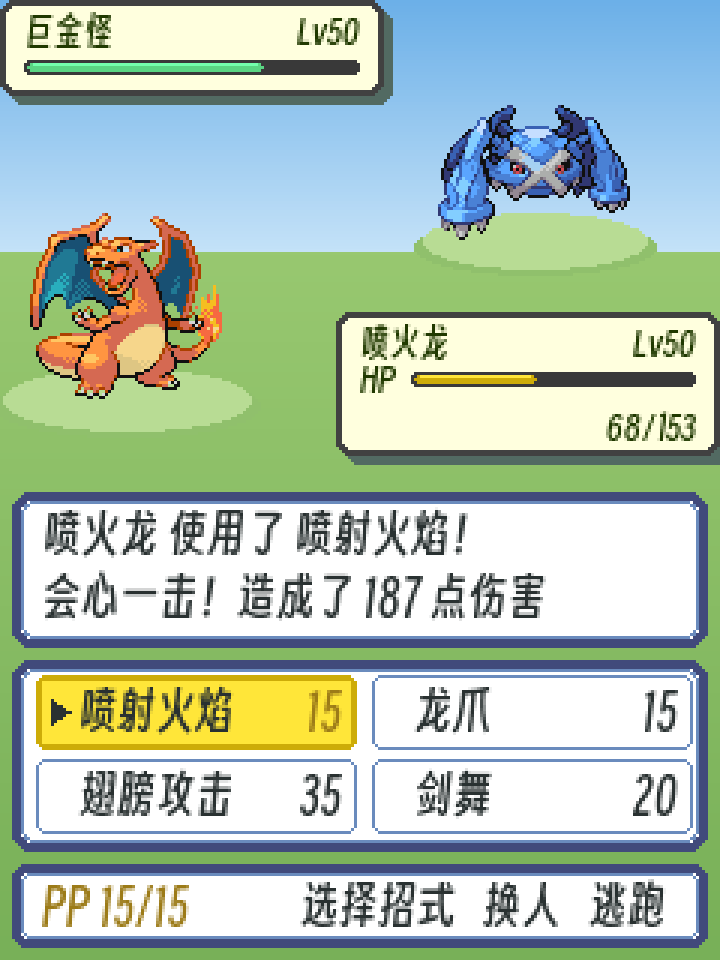
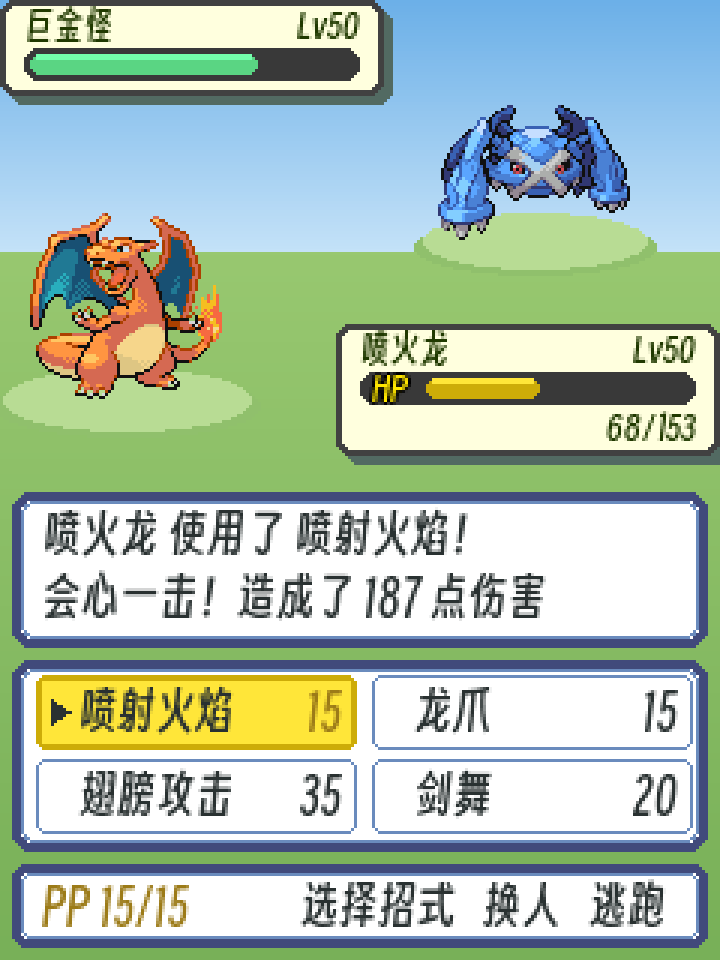
ui: 「HP」标签嵌进血条，血条框再压紧
用户给了火红的参考图：HP 两个字是和血条一体的，并且整体还能更紧凑。

改法：
- hp_bar() -> hp_row()：「HP」标签嵌在条的左端，整体是一个深色胶囊。
  标签用金色 #FFE600（healthbox.pal[9]）+ 黑描边（新增 draw_outlined()），
  其后才是彩色填充。以前画成「左边一个 HP 文字 + 右边一条独立的短条」，
  看着散，横向也多占一个标签的宽度。
- HP 行高 11px（要容纳嵌入的标签），两端仍是胶囊形。
- 我方血条框 128x48 -> 128x44：三行（名字 / HP 条 / 数字）正好填满。
- 对手框维持原版 128x32。

顺带把 hp_row 的填充改成上下各内缩 2px、右端内缩 4px，这样胶囊的圆弧
不会被填充的方角戳出来。

README 的版式表补上「HP 条形态」一行（标签嵌入 + 金色 #FFE600 + 黑描边），
并在界面设计章节记下「分开画和整体画观感差别很明显」这条。

Changed region(s): [[0.4583, 0.3125, 1.0, 0.4375], [0.0306, 0.0, 0.5194, 0.0938]]

diff --git a/tools/make_readme_images.py b/tools/make_readme_images.py
@@ -66,6 +66,11 @@ DLG_EDGE_HI = (106, 139, 189)
 DLG_TEXT = (41, 49, 49)
 DLG_GOLD = (156, 123, 24)
 
+# HP 标签（嵌在条左端，原版就是这样）
+HP_LABEL = (255, 230, 0)      # healthbox.pal[9] 框内的黄
+HP_LABEL_EDGE = (0, 0, 0)     # 标签黑描边
+HP_ROW_H = 11                 # HP 行高度（标签嵌在条内，所以比纯条高）
+
 # 选中项高亮
 SEL_FILL = (255, 230, 57)
 SEL_EDGE = (205, 172, 8)
@@ -225,32 +230,50 @@ def hp_color(ratio):
     return BAR_RED
 
 
-def hp_bar(d, x, y, w, h, ratio):
+def draw_outlined(font, img, x, y, text, fill, edge):
+    """先四向偏移画描边色，再画本体。小字号下描边能显著提升可读性。"""
+    for dx, dy in ((-1, 0), (1, 0), (0, -1), (0, 1)):
+        font.draw(img, x + dx, y + dy, text, edge)
+    font.draw(img, x, y, text, fill)
+
+
+def hp_row(font, img, d, x, y, w, h, ratio, label=True):
     """
-    画 FRLG 风格的 HP 条。
+    HP 条——**「HP」标签嵌在条的左端，整体是一个元素**（原版即如此）。
+
+        [ 深色胶囊 ......................... ]
+         └ 左端：金色「HP」（黑描边）
+         └ 其后：彩色填充，上下各内缩 2px
 
     两个要点：
-      1. **双色立体**——原版不是单色矩形，而是上行高光、下行基色，外面套深色槽。
+      1. **标签与条是一个整体**，不是「左边一个 HP 文字 + 右边一条独立的条」。
+         分开画会显得散，且横向多占一个标签的宽度。
+      2. **填充是双色立体**——原版不是单色矩形，而是上行高光、下行基色。
          按单色画会明显「不像」。
-      2. **四角圆角**——两端收成胶囊形，与血条框的圆角风格统一。
-         原版是方角，这里按需求改成圆角。
     """
-    r = max(1, h // 2)
-    d.rounded_rectangle([x, y, x + w - 1, y + h - 1], radius=r, fill=BAR_TRACK)
+    d.rounded_rectangle([x, y, x + w - 1, y + h - 1],
+                        radius=max(1, h // 2), fill=BAR_TRACK)
 
-    inner_w = w - 2
+    fx = x + 2
+    if label:
+        # ASCII 字形的墨迹从 draw_y+3 起、高 9px；要让它竖直居中于胶囊内
+        draw_outlined(font, img, x + 4, y + (h - 9) // 2 - 3, "HP",
+                      HP_LABEL, HP_LABEL_EDGE)
+        fx = x + 4 + font.measure("HP") + 6
+
+    inner_w = (x + w - 4) - fx
+    if inner_w < 5:
+        return
     fill_w = max(0, min(inner_w, int(round(inner_w * ratio))))
-    if fill_w < 3:
+    if fill_w < 5:
         return
 
     hi, lo = hp_color(ratio)
-    x1, y1 = x + 1, y + 1
-    x2, y2 = x + fill_w, y + h - 2
-    r2 = max(1, (h - 2) // 2)
-    d.rounded_rectangle([x1, y1, x2, y2], radius=r2, fill=lo)
-    # 上缘高光：两端各收进 2px，避免方角从胶囊形的圆弧里戳出来
-    if fill_w > 5:
-        d.rectangle([x1 + 2, y1, x2 - 2, y1 + max(0, h // 3 - 1)], fill=hi)
+    x2 = fx + fill_w - 1
+    d.rounded_rectangle([fx, y + 2, x2, y + h - 3],
+                        radius=max(1, (h - 4) // 2), fill=lo)
+    if fill_w > 7:
+        d.rectangle([fx + 2, y + 2, x2 - 2, y + 3], fill=hi)
 
 
 def frlg_frame(d, x, y, w, h, radius=5):
@@ -261,40 +284,27 @@ def frlg_frame(d, x, y, w, h, radius=5):
                         radius=radius, fill=HB_FILL, outline=HB_EDGE, width=2)
 
 
-HP_BAR_H = 5        # 条高（原版约 8，按需求调到 5）
-
-
 def healthbox(font, img, d, x, y, w, h, name, lv, ratio, hp_text=None):
     """
     一个完整的血条框。`font` 传 12px 那套（16px 在小框里明显偏大）。
 
     对手框 128x32：名字 + Lv + HP 条（原版对手框不显示数字）
-    我方框 128x48：多「HP」标签和一行 HP 数字
+    我方框 128x44：HP 条左端多一个「HP」标签 + 一行 HP 数字
 
     **我方框高度与原版不同**：原版的 128x64 是因为最下面压着一条 EXP 条，
-    本项目不用 EXP，所以压到 48——三行（名字 / HP 条 / 数字）正好填满，
-    不然下方会留一块空白。
+    本项目不用 EXP，压到 44 才紧凑——三行（名字 / HP 条 / 数字）正好填满。
     """
     frlg_frame(d, x, y, w, h)
-
-    if hp_text:
-        name_y, bar_y, num_y = 3, 20, 31
-    else:
-        name_y, bar_y, num_y = 3, 20, 0
-    font.draw(img, x + 8, y + name_y, name, HB_TEXT)          # 名字
+    fy = 1 if hp_text else 1          # 名字行
+    font.draw(img, x + 8, y + fy, name, HB_TEXT)
     lv_x = x + w - 8 - font.measure(lv)
-    font.draw(img, lv_x, y + name_y, lv, HB_TEXT)             # 等级右对齐
+    font.draw(img, lv_x, y + fy, lv, HB_TEXT)
+
+    hp_row(font, img, d, x + 8, y + 16, w - 16, HP_ROW_H, ratio,
+           label=bool(hp_text))
 
     if hp_text:
-        # 我方框：左边标「HP」，条相应缩短；标签与条垂直居中对齐
-        font.draw(img, x + 8, y + bar_y - 5, "HP", HB_TEXT)
-        bar_x = x + 8 + font.measure("HP") + 5
-    else:
-        bar_x = x + 8
-    hp_bar(d, bar_x, y + bar_y, (x + w - 8) - bar_x, HP_BAR_H, ratio)
-
-    if hp_text:
-        font.draw(img, x + w - 8 - font.measure(hp_text), y + num_y,
+        font.draw(img, x + w - 8 - font.measure(hp_text), y + 27,
                   hp_text, HB_TEXT)
 
 
@@ -341,10 +351,10 @@ def make_hero(f_ui, f_lvgl, sprites, names, scale):
     | 项 | 值 | 出处 |
     |---|---|---|
     | 对手血条框 | 128x32，左上角贴边 (0,0) | OAM `SPRITE_SHAPE(64x64)` x2 精灵拼合 |
-    | 我方血条框 | 128x48，右下角贴边 (112,104) | 原版为 128x64，本项目去掉 EXP 条后压到 48 |
+    | 我方血条框 | 128x44，右下角贴边 (112,108) | 原版为 128x64，本项目去掉 EXP 条后压到 44 |
     | 网格 | 左上 / 右下**对角**摆放 | 原版就是对角，两框各占半屏宽 |
     | 框体配色 | 米白填充 + 深灰描边 + 右下墨绿投影 | `healthbox.pal` |
-    | HP 条 | 双色立体（上行高光、下行基色）+ 深色槽 | `healthbar.pal` |
+    | HP 条 | 双色立体（上行高光、下行基色）+ 深色槽；「HP」标签嵌在条左端 | `healthbar.pal` + 原版图形 |
     | 对话框 | 白底 + 深蓝外框 + 浅蓝内框 | `textbox1.pal` |
 
     屏幕是 240x320，正好是 GBA 240x160 的两倍，所以：
@@ -403,7 +413,7 @@ def make_hero(f_ui, f_lvgl, sprites, names, scale):
     healthbox(f_ui, img, d, 0, 0, 128, 32,
               names["metagross"], "Lv50", 0.72)
     # 我方：右下，128x64（多 HP 数字与 EXP 条）
-    healthbox(f_ui, img, d, 112, 104, 128, 48,
+    healthbox(f_ui, img, d, 112, 108, 128, 44,
               names["charizard"], "Lv50", 0.44, hp_text="68/153")
 
     # ---- 下半屏：对话框 + 招式菜单 + 状态行 ----

diff --git a/README.md b/README.md
@@ -119,12 +119,13 @@ Pokémon Showdown 的 `sim/bots/` 已从 master 移除，只剩 `RandomPlayerAI`
 | 项 | 原版值 | 出处 |
 |---|---|---|
 | 对手血条框 | **128×32**，左上角贴边 `(0,0)` | OAM 是 `SPRITE_SHAPE(64x64)` 的**两个**精灵拼合 → 宽 128 |
-| 我方血条框 | **128×48**，右下角贴边 `(112,104)` | 原版是 128×64，因为它最下面压着一条 EXP 条；本项目不用 EXP，压到 48 才不留空白 |
+| 我方血条框 | **128×44**，右下角贴边 `(112,108)` | 原版是 128×64，因为它最下面压着一条 EXP 条；本项目不用 EXP，压到 44 才不留空白 |
 | 摆放 | 左上 / 右下**对角**，各占半屏宽 | 原版即如此 |
 | 框体 | 米白填充 `#FFFFDE` + 深灰描边 `#414141` + 右下墨绿投影 `#526A62` | `graphics/battle_interface/healthbox.pal` |
 | 框内文字 | 用 **12 px** 那套字库（16 px 在小框里明显偏大） | 本项目调整 |
 | HP 条 | **双色立体**：上行高光 + 下行基色，外套深色槽 | `healthbar.pal` |
-| HP 条尺寸 | 高 **5 px**（原版约 8），两端**圆角收成胶囊形**，与框体圆角统一 | 本项目调整 |
+| HP 条形态 | **「HP」标签嵌在条的左端，与条是一个整体**（不是「左边一个 HP 文字 + 右边一条独立的条」）。标签金色 `#FFE600` + 黑描边 | `healthbox.pal[9]` |
+| HP 行高 | **11 px**（要容纳嵌入的标签），两端**圆角收成胶囊形**，与框体圆角统一 | 本项目调整 |
 | HP 条三档色 | 绿 `#73FFAC`/`#5AD583`、黄 `#FFE639`/`#CDAC08`、红 `#FF5A39`/`#AC414A` | 同上 |
 | 对话框 | 白底 + 深蓝外框 `#414A7B` + 浅蓝内框 `#6A8BBD` | `textbox1.pal` |
 | 框内文字色 | 深绿 `#203900` | `healthbox.pal` |
@@ -135,6 +136,10 @@ Pokémon Showdown 的 `sim/bots/` 已从 master 移除，只剩 `RandomPlayerAI`
 **立绘站台要按「可见像素」的下边界摆，不能按 64×64 画布的下边界。** 立绘画布
 底部通常留一圈透明（巨金怪留了 6 px），按画布摆会让站台明显悬在脚底下。
 `make_readme_images.py` 里用 `sprite.getbbox()[3]` 取真实脚底。
+
+**「HP」标签是嵌在血条里的。** 一开始画成了「左边一个 HP 文字 + 右边一条独立的
+短条」，看着散、横向也多占一个标签的宽度。原版是一个整体：深色胶囊，左端放
+金色「HP」，其后才是彩色填充。分开画和整体画观感差别很明显。
 
 ### 字体相关的缺口
 
